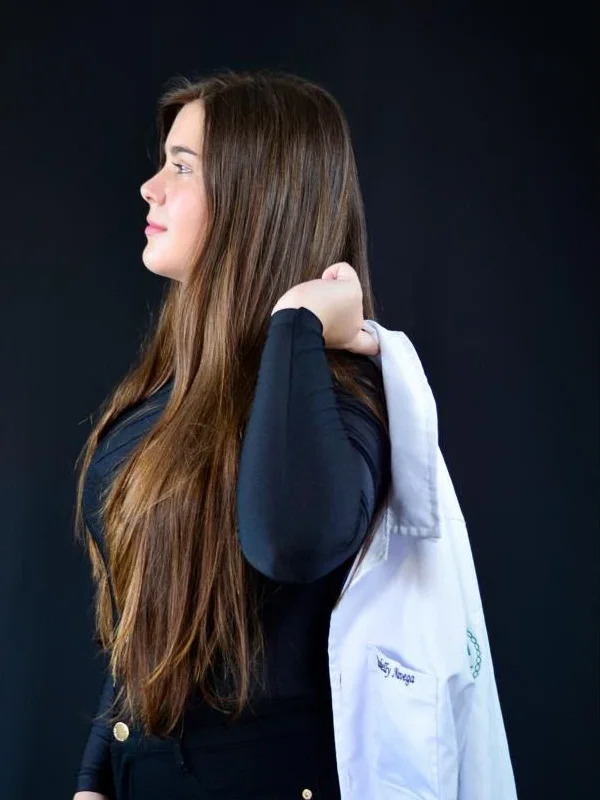
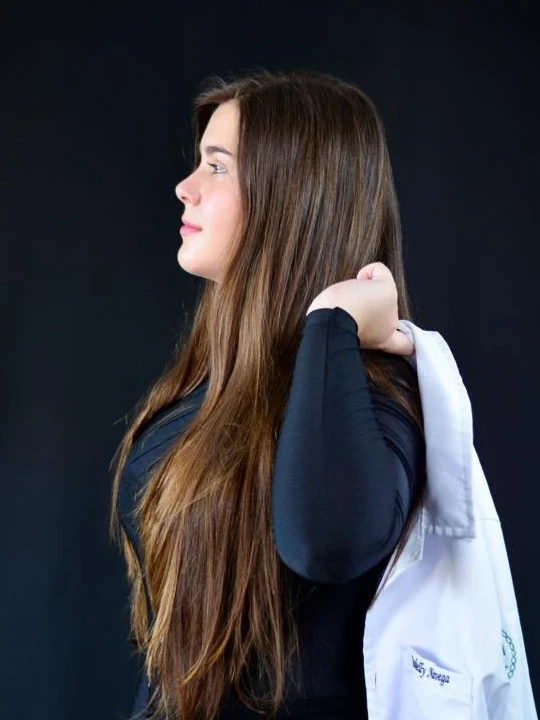
Centraliza a Isabelly na foto da equipe

diff --git a/index.html b/index.html
@@ -274,7 +274,7 @@
 
           <article class="pessoa">
             <div class="pessoa__foto">
-              <img src="img/equipe-isabelly.webp" alt="Isabelly de perfil, segurando o jaleco sobre o ombro" width="600" height="800" loading="lazy">
+              <img src="img/equipe-isabelly.webp" alt="Isabelly de perfil, segurando o jaleco sobre o ombro" width="540" height="720" loading="lazy">
             </div>
             <div class="pessoa__info">
               <h3>Isabelly</h3>
